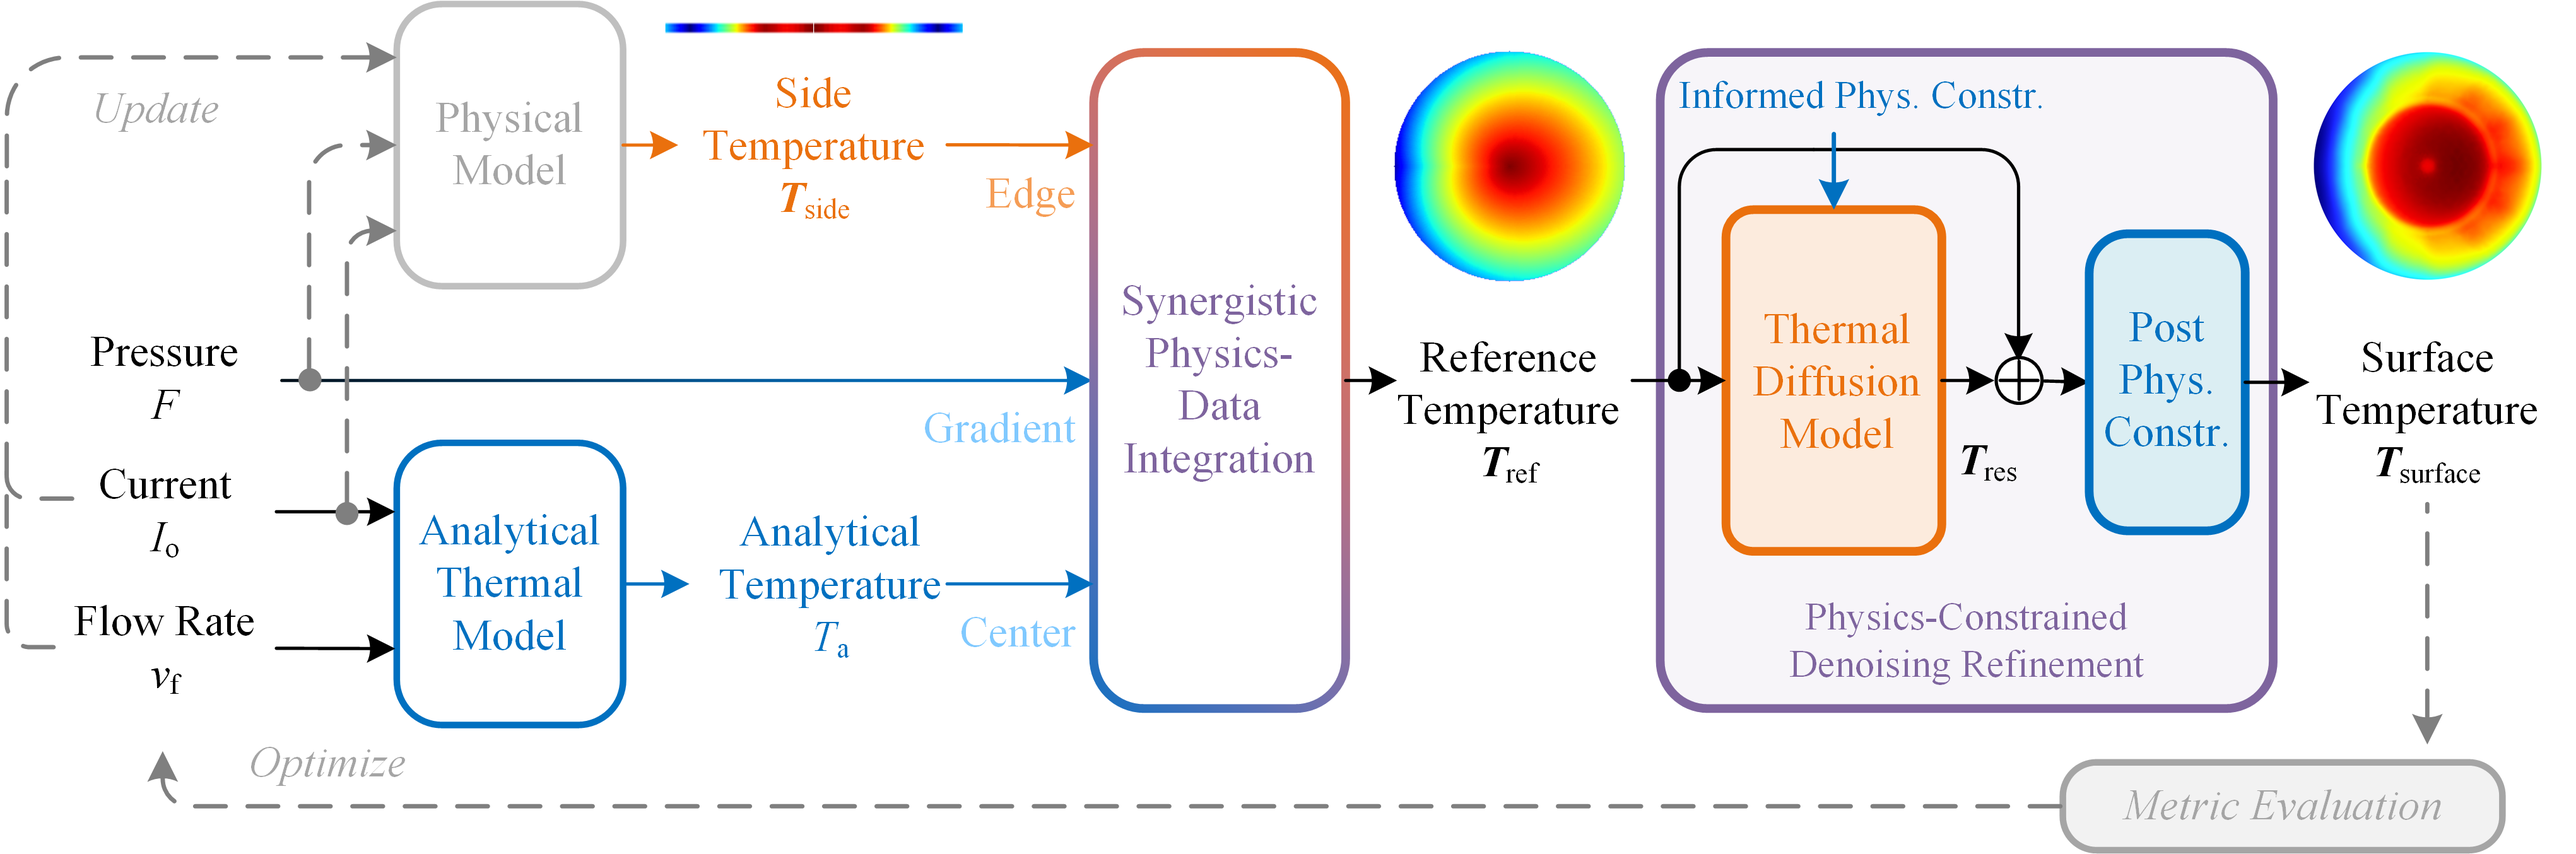
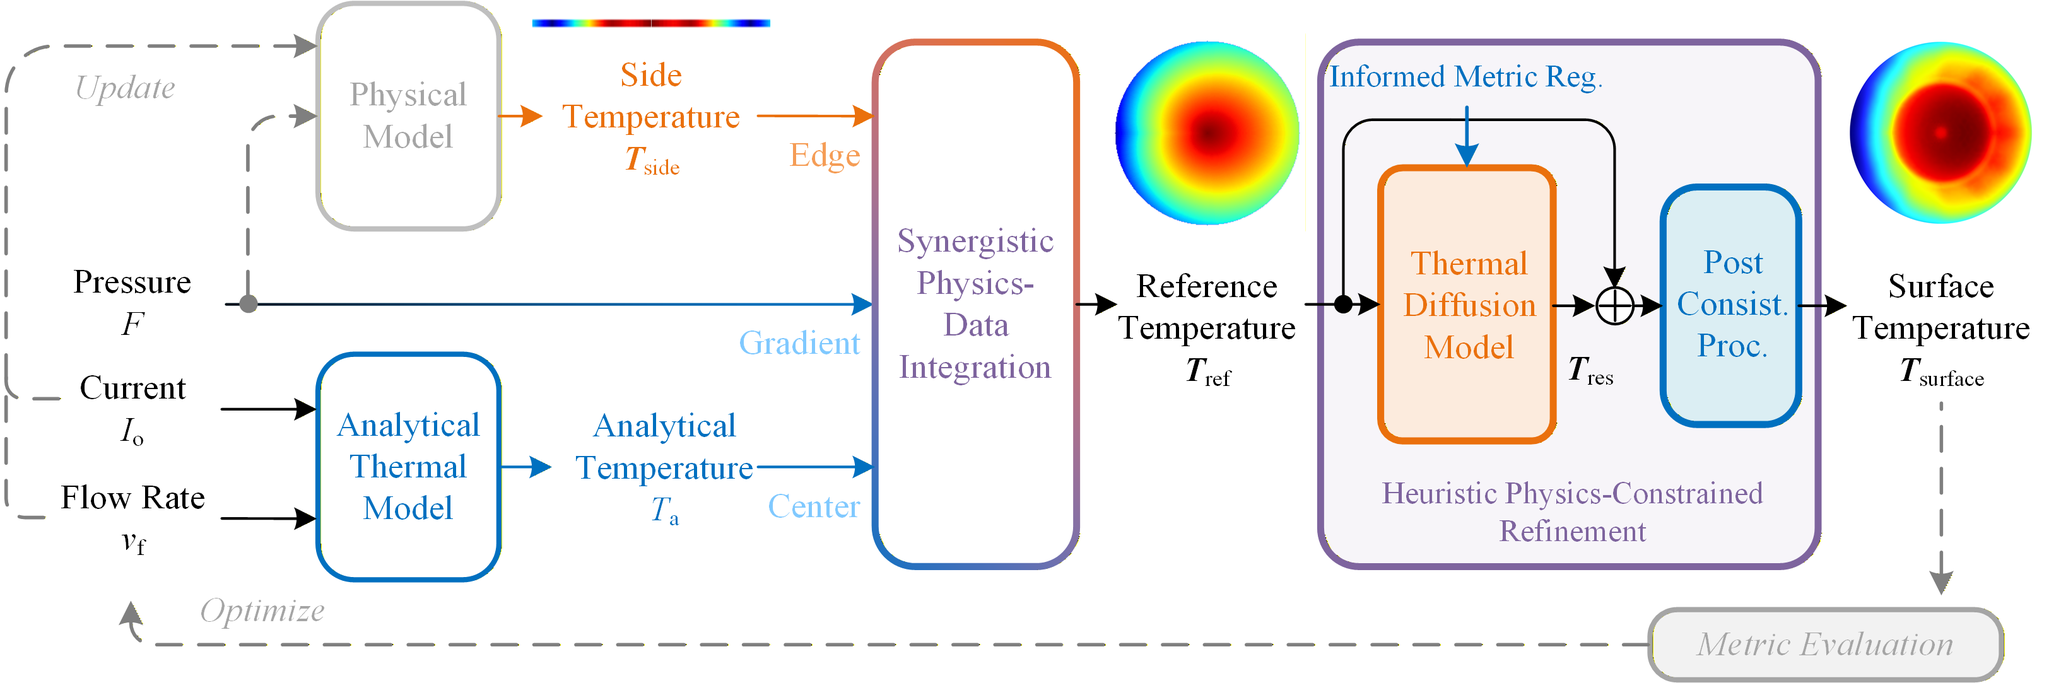
doc: update readme

diff --git a/README.md b/README.md
@@ -10,7 +10,7 @@ Official implementation for "Synergistic Physics-Data Constrained Diffusion Mode
 
 ## ✨ Highlights
 * **Synergistic Physics-Data Integration**: The GCT surface temperature reference is constructed by interpolating analytical predictions and real-time temperature measurements. This synergistic integration compresses the physical mechanisms and empirical observations into a geometric representation.
-* **Physics-Constrained Denoising Refinement**: The proposed diffusion model iteratively refines the residual error of the reference, generating high-fidelity GCT surface temperature distribution following physical consistency.
+* **Heuristic Physics-Constrained Refinement**: The proposed diffusion model iteratively refines the residual error of the reference, generating high-fidelity GCT surface temperature distribution following physical consistency.
 * **Gradient-Based Temperature Optimization**: n online optimization strategy is developed to regulate GCT surface temperature distributions, supporting diverse metrics such as maximum value, mean value, and spatial variance.
 * **Specialized Dataset _`IGCT X`_**: The first open-source dataset tailored for surface thermal management of press-pack IGCTs is introduced. It contains GCT surface and side temperature data in pairs, considering multiple physics coupling effects and varied system parameters.
 
@@ -73,7 +73,7 @@ python model.py -config configs/config_model.yml
 ## 🙏 Acknowledgement
 
 The project is built based on the following repository:
-- [lucidrains/denoising-diffusion-pytorch](https://github.com/lucidrains/denoising-diffusion-pytorch)
+- [hojonathanho/diffusion](https://github.com/hojonathanho/diffusion)
 - [ximinng/LLM4SVG](https://github.com/ximinng/LLM4SVG)
 
 We gratefully thank the authors for their wonderful works.
